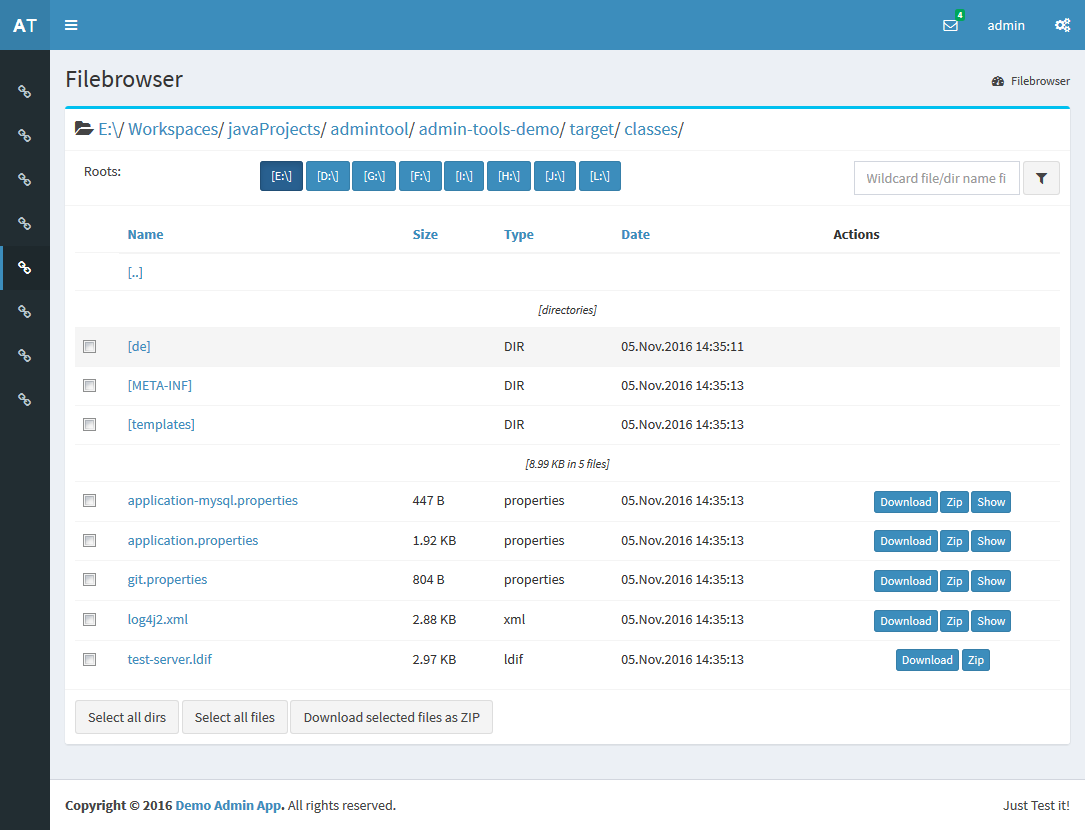
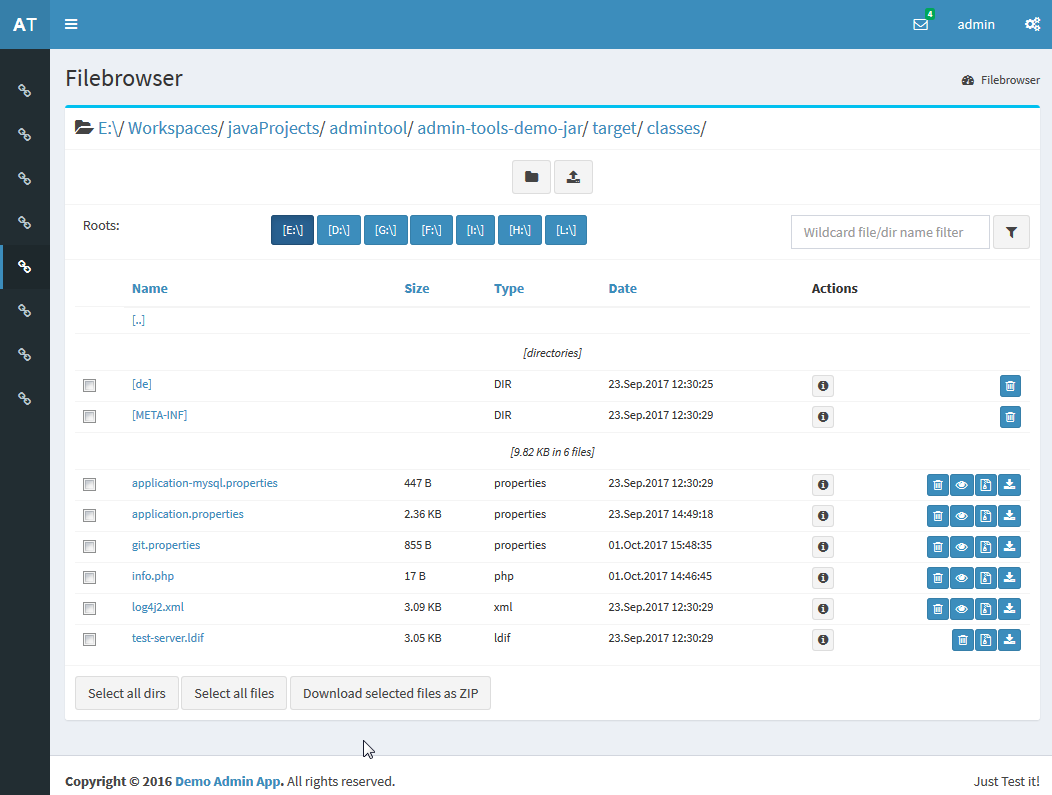
#24 - update documentation for filebrowser

diff --git a/admin-tools-filebrowser/README.md b/admin-tools-filebrowser/README.md
@@ -6,6 +6,10 @@
 * `sorting`: sort result part of table by name, size, date and type
 * `downloading`: download files
 * `zipping`: download one ore more files/folders as compressed zip
+* `uploading`: upload files via drag'n'drop
+* `deleting`: remove files and directories
+* `creating`: create folders
+* `info`: show file and hdd info
 * `file viewer`: 
   * additional functionality to show files
   * syntax highlighting for different file types
@@ -118,6 +122,34 @@
 	#since 1.1.6
 	# boolean: to enable action to delete files
 	admintool.filebrowser.delteFileAllowed=false
+	
+	#since 1.1.6
+	# boolean: to enable action to upload files
+	admintool.filebrowser.uploadAllowed=false
+	
+	#since 1.1.6
+	# boolean: to enable hash generation for CRC-32 (in file-info-dialog)
+	admintool.filebrowser.info.crc32=true
+	
+	#since 1.1.6
+	# boolean: to enable hash generation for MD-5 (in file-info-dialog)
+	admintool.filebrowser.info.md5=true
+	
+	#since 1.1.6
+	# boolean: to enable hash generation for SHA-1 (in file-info-dialog)
+	admintool.filebrowser.info.sha1=true
+	
+	#since 1.1.6
+	# boolean: to enable hash generation for SHA-256 (in file-info-dialog)
+	admintool.filebrowser.info.sha256=false
+	
+	#since 1.1.6
+	# long: maximum file size the hashes are generated for (in file-info-dialog)
+	admintool.filebrowser.info.maxFilesizeForHashes=1000000000
+	
+	#since 1.1.6
+	# boolean: to enable folder size calculation (in file-info-dialog)
+	admintool.filebrowser.info.countFolderSize=true
 		
 ```
 
